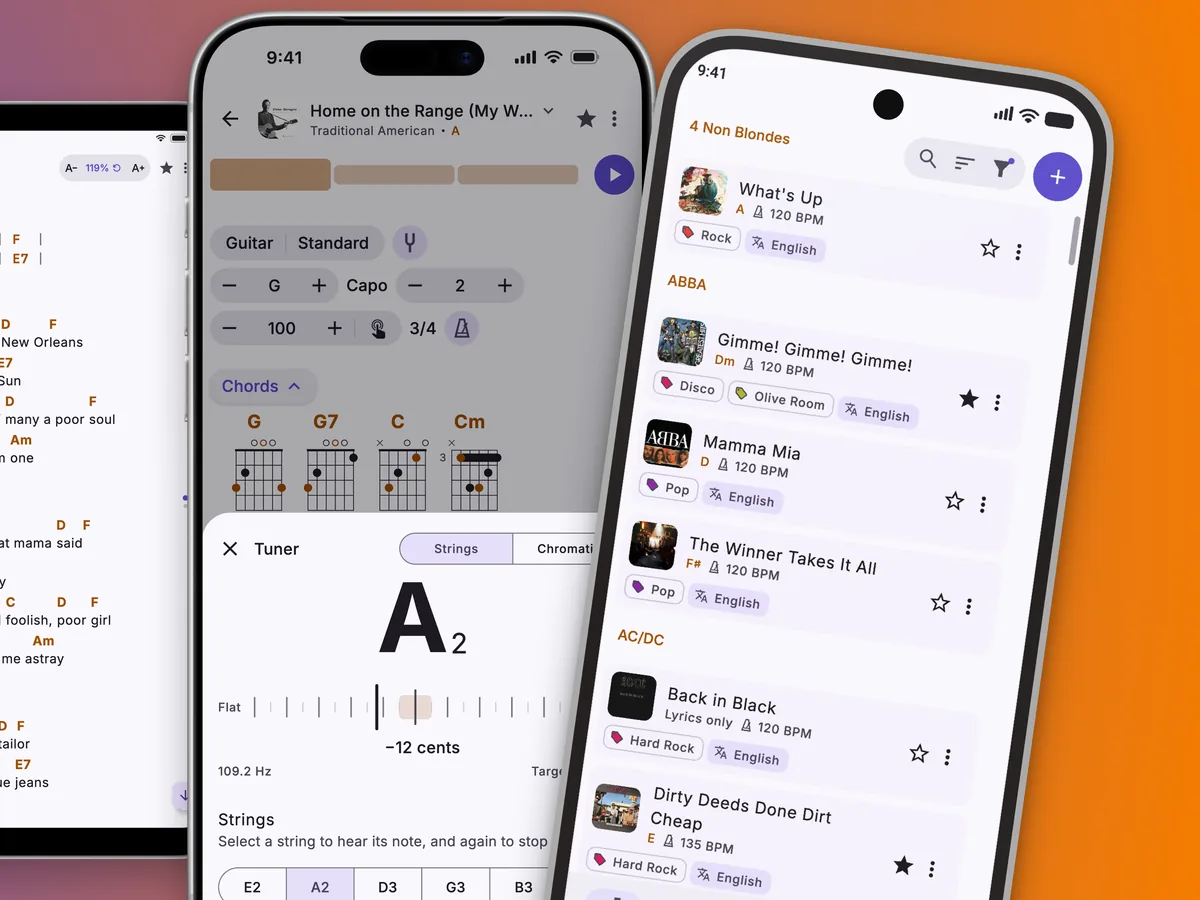
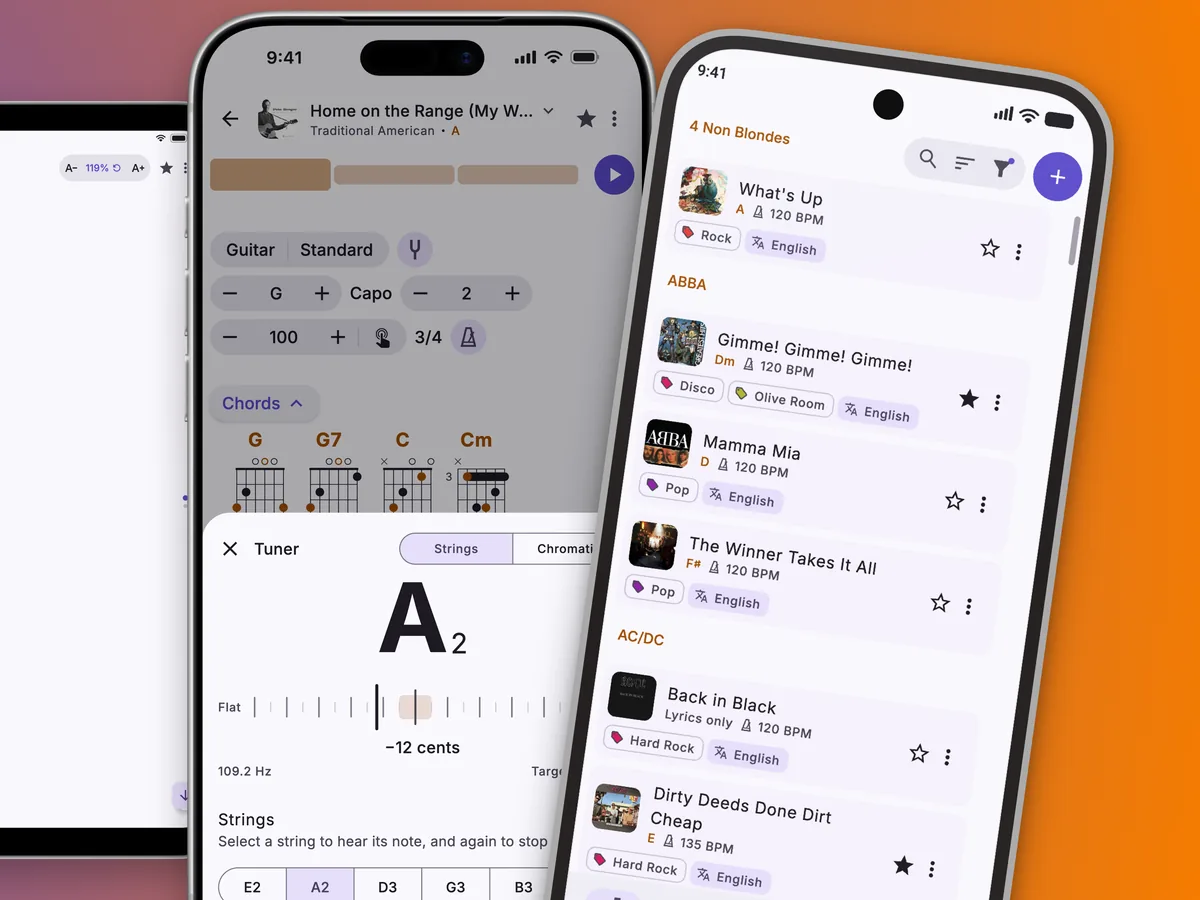
Regenerate the screenshots, fitting the Android phone's and the website's tablet song shots to songs now shown at the chosen text size.

diff --git a/tools/screenshots/src/main/kotlin/com/pandulapeter/campfire/screenshots/Shot.kt b/tools/screenshots/src/main/kotlin/com/pandulapeter/campfire/screenshots/Shot.kt
@@ -261,10 +261,11 @@ internal val shots = listOf(
                 // picking pattern across two columns instead of keeping it whole in the first, as the iPad does. A
                 // phone's first page ends after the first verse whatever the text size, the room it leaves spread
                 // between its sections, so the phones take the largest text that still keeps the whole verse on it
-                // (at 112.5% the chord diagrams take two rows and push the verse off), which leaves the least room.
+                // (one step more and the chord diagrams take two rows and push the verse off), which leaves the least
+                // room: 110% on the iPhone, 100% on the narrower Android phone.
                 when (device) {
-                    Device.ANDROID_PHONE, Device.IPHONE -> put("fontScale", JsonPrimitive(1.1f))
-                    Device.CHROMEBOOK -> put("fontScale", JsonPrimitive(1f))
+                    Device.IPHONE -> put("fontScale", JsonPrimitive(1.1f))
+                    Device.ANDROID_PHONE, Device.CHROMEBOOK -> put("fontScale", JsonPrimitive(1f))
                     else -> Unit
                 }
                 if (device.isPhone) put("foldedSections", buildJsonObject { putJsonArray(HOUSE_OF_THE_RISING_SUN) { add("Picking pattern#1") } })

diff --git a/tools/screenshots/src/main/kotlin/com/pandulapeter/campfire/screenshots/Website.kt b/tools/screenshots/src/main/kotlin/com/pandulapeter/campfire/screenshots/Website.kt
@@ -159,7 +159,7 @@ internal val websiteShots: List<Triple<String, Device, Shot>> by lazy {
                 },
             ),
         ),
-        Triple("tablet-song", Device.IPAD, song("tablet-song", "jonathan_coulton-still_alive.cho", fontScale = 1f)),
+        Triple("tablet-song", Device.IPAD, song("tablet-song", "jonathan_coulton-still_alive.cho", fontScale = 1.1f)),
         // Uptown Girl with the metronome panel open under its title, playing, as the tuner shot shows it under its sheet
         // (which stops the click).
         *playing(

diff --git a/.claude/skills/store-screenshots/SKILL.md b/.claude/skills/store-screenshots/SKILL.md
@@ -132,7 +132,7 @@ account, "Connected as Péter Pandula"; only public domain songs are opened full
 | # | Headline | Shot |
 |---|---|---|
 | 1 | Your songbook, synced to every screen | Songs, English only, by artist, from the top (the library's copy of Gimme! Gimme! Gimme! has no subtitle) |
-| 2 | Laid out for the way you play | House of the Rising Sun (Traditional American) with the Scales section folded, and on phones the Picking pattern too; the phones at 110% text, the largest that keeps the whole first verse on the first page (the least room left spread between its sections), the Chromebook at 100% |
+| 2 | Laid out for the way you play | House of the Rising Sun (Traditional American) with the Scales section folded, and on phones the Picking pattern too; the phones at the largest text that keeps the whole first verse on the first page (the least room left spread between its sections): the iPhone at 110%, the Android phone and the Chromebook at 100% |
 | 3 | A metronome and tuner in every song | Home on the Range on a guitar, its metronome panel open (not playing: the tuner sheet stops the click) under the tuner sheet, which hears the A string 12 cents flat |
 | 4 | Setlists ready for the gig | Setlists by date: Frey-Tully Nuptials "In 2 days", Friday Night by the Lake "Tomorrow" |
 | 5 | ChordPro editor with live preview | Home on the Range in the editor; Split wherever the app offers it, Edit otherwise; Shortcuts always open |
@@ -146,7 +146,7 @@ preview the Mac's 2 and the iPhone's 1; Apple's header the iPad's 4, the Mac's 2
 results image the iPad's 2 and the iPhone's 3, all dark.
 
 The website's tablet songs are set at the text size where page one ends exactly where a section ends, never inside one:
-Still Alive 100% (page one ends after Verse 4); Uptown Girl 100% with the metronome panel open (after Bridge 1), under the
+Still Alive 110% (page one ends after Verse 4); Uptown Girl 100% with the metronome panel open (after Verse 3), under the
 tuner sheet too; I'm Gonna Be (500 Miles) 110% (after Verse 3), under the Choose chord shape and the scale sheets. A song
 longer than a page is cut wherever a column ends, so these were found by rendering every size from 80% to 130% and
 reading where page one ends; if a song, a device or the layout changes, try again the same way. The laptop's text size
